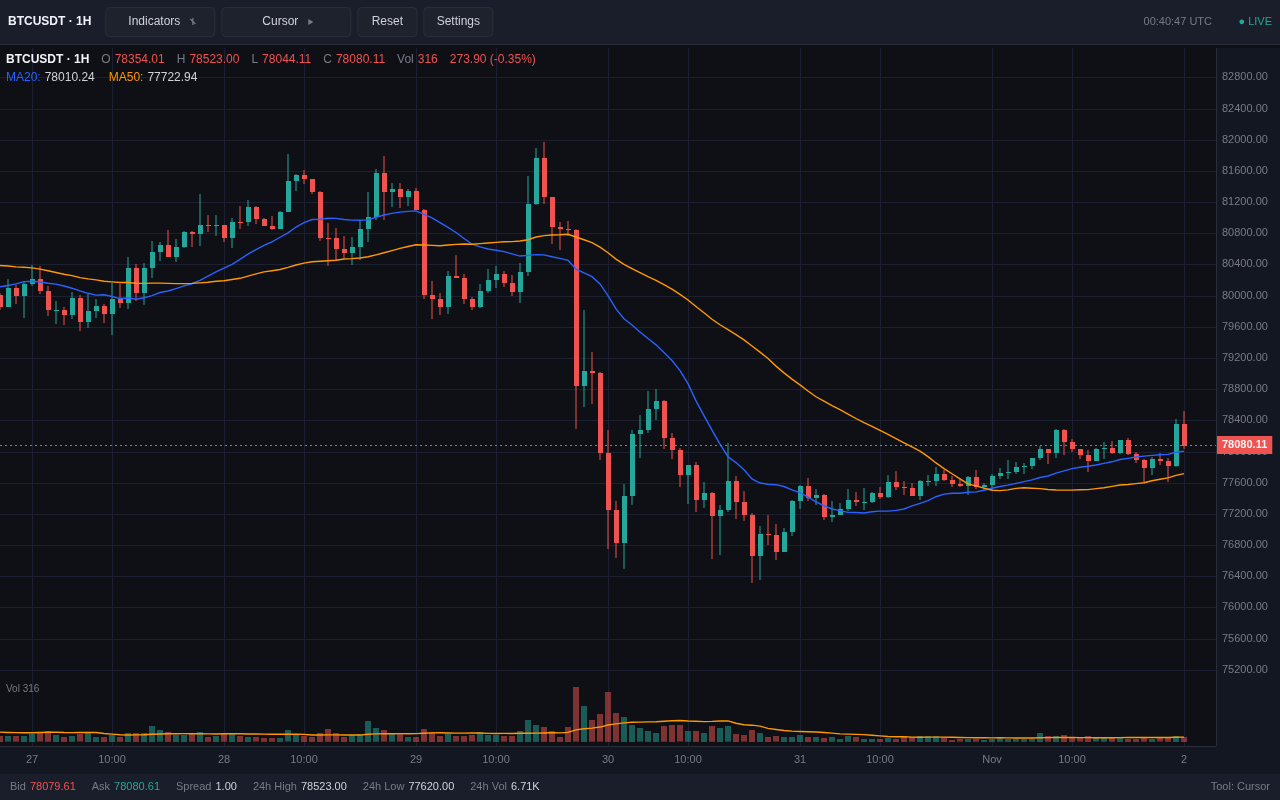
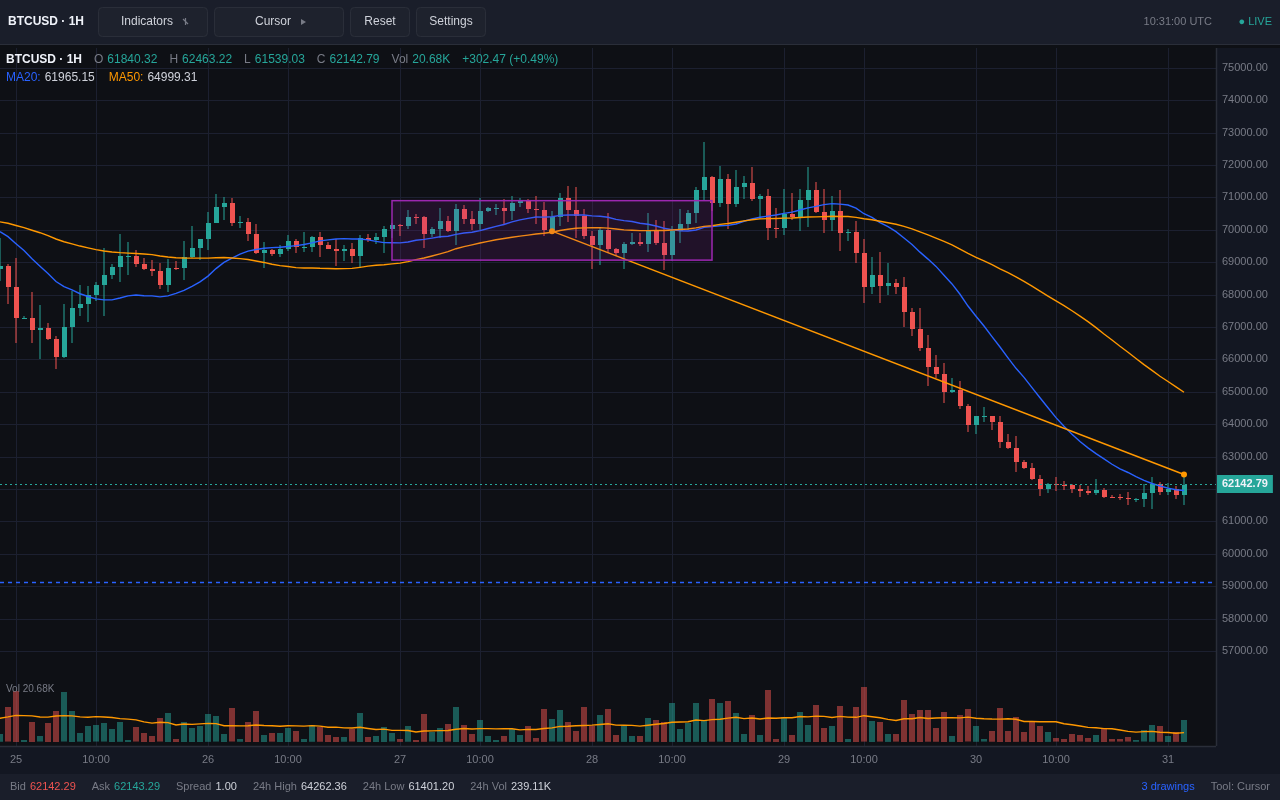
7b78caea-7f0c-4708-a2e5-aae011ad8486

diff --git a/download/preview-mock.html b/download/preview-mock.html
@@ -1,0 +1,181 @@
+<!DOCTYPE html>
+<html lang="en">
+<head>
+<meta charset="UTF-8">
+<meta name="viewport" content="width=device-width, initial-scale=1.0, maximum-scale=1.0, user-scalable=no, viewport-fit=cover">
+<meta name="theme-color" content="#0e1015">
+<title>BADI-CHARTS-V2 — Full Preview (Mock Data)</title>
+<style>
+  body { margin:0; background:#0e1015; overflow:hidden; font-family:-apple-system,Segoe UI,Roboto,sans-serif; }
+  #chart { display:block; }
+</style>
+</head>
+<body>
+<canvas id="chart"></canvas>
+
+<!-- Load the BADI-CHARTS-V2 library -->
+<script src="chart.js"></script>
+
+<script>
+/* =============================================================================
+ * BADI-CHARTS-V2 — Full Preview with Mock Data
+ *
+ * This file generates fake candles (similar to the original demo) so you can
+ * preview every feature of the library: candles, volume, all indicators,
+ * drawing tools, crosshair, current price line, etc.
+ *
+ * In production, replace genMockCandles() with your real data source.
+ * ============================================================================= */
+
+(function() {
+  document.body.style.background = '#0e1015';
+
+  // 1. Create the chart with full configuration
+  const canvas = document.getElementById('chart');
+  canvas.style.cursor = 'crosshair';
+  const chart = new BadiCharts(canvas, {
+    symbol:    { label:'BTCUSD', priceScale:100, decimals:2 },
+    timeframe: { label:'1H', ms:60*60*1000 },
+    indicators: ['ma20','ma50','volsma']  // initial indicators
+  });
+  window.__chart = chart;
+
+  // 2. Generate mock candle data (realistic-looking price action)
+  function genMockCandles(count, basePrice, vol) {
+    let price = basePrice;
+    const now = Math.floor(Date.now() / 3600) * 3600;
+    const startTime = now - count * 3600;
+    const out = [];
+    // Use a seeded random for reproducibility
+    let seed = 12345;
+    const rand = () => {
+      seed = (seed * 1103515245 + 12345) & 0x7fffffff;
+      return seed / 0x7fffffff;
+    };
+    for (let i = 0; i < count; i++) {
+      const t = startTime + i * 3600;
+      const open = price;
+      const volMult = 1 + Math.sin(i * 0.07) * 0.4 + (rand() - 0.5) * 0.6;
+      const drift = (rand() - 0.5) * vol * volMult * 1.6;
+      const macroBias = Math.sin(i * 0.013) * 0.0018
+                      + Math.sin(i * 0.005 + 0.7) * 0.0012
+                      + Math.sin(i * 0.027 + 1.3) * 0.0008;
+      const meanRevert = (basePrice - price) / price * 0.006;
+      const close = open * (1 + drift + macroBias + meanRevert);
+      const range = vol * volMult * price * (0.5 + rand() * 0.8);
+      const high = Math.max(open, close) + range * rand() * 0.7;
+      const low = Math.min(open, close) - range * rand() * 0.7;
+      const volume = Math.abs(close - open) / open * price * 50 + rand() * 1000 + 500;
+      out.push({
+        time: t,
+        open: open,
+        high: high,
+        low: low,
+        close: close,
+        volume: volume
+      });
+      price = close;
+    }
+    return out;
+  }
+
+  // 3. Generate 800 mock 1H candles for BTCUSD
+  const candles = genMockCandles(800, 67500, 0.012);
+  chart.setData(candles);
+
+  // 4. Start the render loop
+  chart.start();
+
+  // 5. Simulate real-time ticks (every 1 second) so the chart feels alive
+  setInterval(function() {
+    const last = chart.sim.candles[chart.sim.candles.length - 1];
+    const drift = (Math.random() - 0.5) * 0.012 * 0.5;
+    const newClose = last.close * (1 + drift);
+    chart.update({
+      time: last.time,
+      open: last.open,
+      high: Math.max(last.high, newClose),
+      low: Math.min(last.low, newClose),
+      close: newClose,
+      volume: last.volume + Math.random() * 50 + 10
+    });
+  }, 1000);
+
+  // 6. Add some demo drawings to showcase drawing tools
+  setTimeout(function() {
+    const c = chart.sim.candles;
+    const idx1 = c.length - 80;
+    const idx2 = c.length - 1;
+    // Trend line (orange) connecting a low to a high
+    chart.addDrawing({
+      type: 'trend',
+      i1: idx1, p1: c[idx1].low,
+      i2: idx2, p2: c[idx2].high,
+      color: '#ff9800'
+    });
+    // Horizontal support line (blue dashed)
+    chart.addDrawing({
+      type: 'hline',
+      price: c[idx2].close * 0.95,
+      color: '#2962ff'
+    });
+    // Rectangle highlighting a consolidation zone (purple)
+    chart.addDrawing({
+      type: 'rect',
+      i1: idx1 - 20, p1: c[idx1 - 20].high * 1.01,
+      i2: idx1 + 20, p2: c[idx1 - 20].low * 0.99,
+      color: '#9c27b0'
+    });
+  }, 500);
+
+  // Expose helpers for interactive testing
+  window.badiPreview = {
+    // Toggle all indicators
+    showAllIndicators: function() {
+      ['ma20','ma50','ma200','ema20','ema50','bb','volsma','rsi','macd','vprof'].forEach(function(id) {
+        chart.addIndicator(id);
+      });
+    },
+    // Clear all indicators
+    clearIndicators: function() {
+      ['ma20','ma50','ma200','ema20','ema50','bb','volsma','rsi','macd','vprof'].forEach(function(id) {
+        chart.removeIndicator(id);
+      });
+    },
+    // Switch symbol (just changes the label, keeps the data)
+    setSymbol: function(label, priceScale, decimals) {
+      chart.setSymbol({ label: label, priceScale: priceScale, decimals: decimals });
+    },
+    // Set a drawing tool
+    setTool: function(toolId) {
+      chart.setTool(toolId);
+    },
+    // Clear all drawings
+    clearDrawings: function() {
+      chart.clearDrawings();
+    },
+    // Reset view
+    resetView: function() {
+      chart.resetView();
+    },
+    // Get current state
+    state: function() {
+      return {
+        symbol: chart.symbol.label,
+        timeframe: chart.timeframe.label,
+        candles: chart.sim.candles.length,
+        indicators: Array.from(chart.activeIndicators),
+        drawings: chart.drawings.length,
+        tool: chart.activeTool
+      };
+    }
+  };
+
+  console.log('BADI-CHARTS-V2 preview loaded.');
+  console.log('Try: badiPreview.showAllIndicators()');
+  console.log('Try: badiPreview.setTool("trend") then click-drag on the chart');
+  console.log('Try: badiPreview.state()');
+})();
+</script>
+</body>
+</html>
